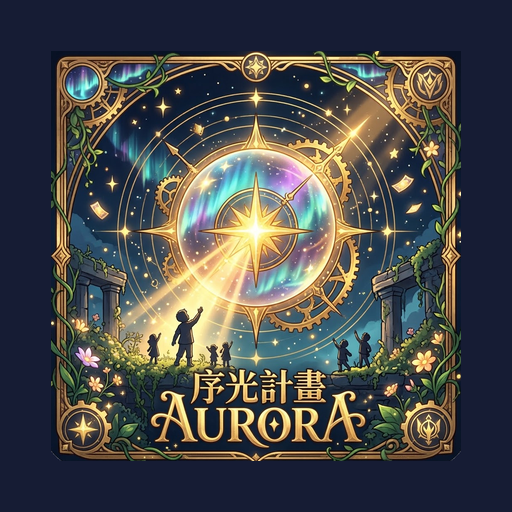
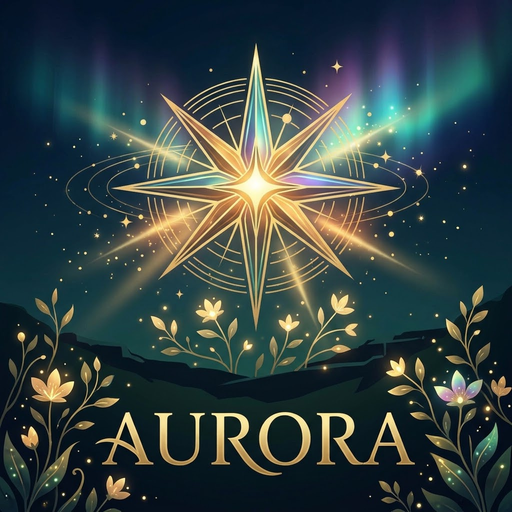
App 圖示換成 Aurora 星芒圖
Claude-Session: https://claude.ai/code/session_014BhPeNrpvZrWQU4v9wXcG7

diff --git a/index.html b/index.html
@@ -12,10 +12,10 @@
 
   <title>序光計畫</title>
 
-  <link rel="manifest" href="manifest.webmanifest?v=3">
+  <link rel="manifest" href="manifest.webmanifest?v=4">
   <meta name="theme-color" content="#1d2547">
-  <link rel="apple-touch-icon" href="img/app/apple-touch-icon.png?v=3">
-  <link rel="icon" type="image/png" sizes="192x192" href="img/app/icon-192.png?v=3">
+  <link rel="apple-touch-icon" href="img/app/apple-touch-icon.png?v=4">
+  <link rel="icon" type="image/png" sizes="192x192" href="img/app/icon-192.png?v=4">
   <meta name="apple-mobile-web-app-capable" content="yes">
   <meta name="mobile-web-app-capable" content="yes">
   <meta name="apple-mobile-web-app-title" content="序光計畫">
